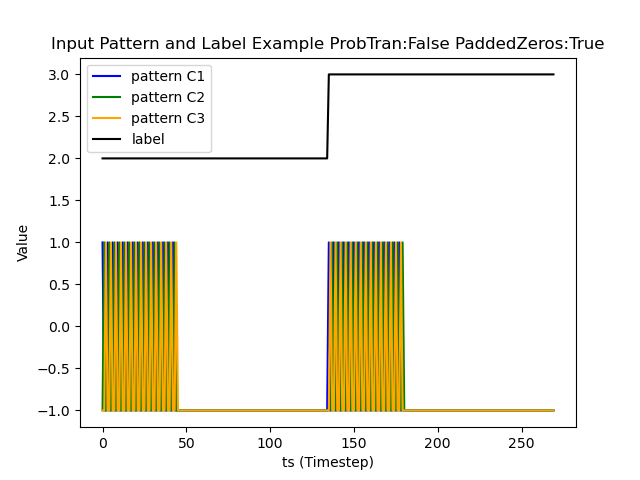
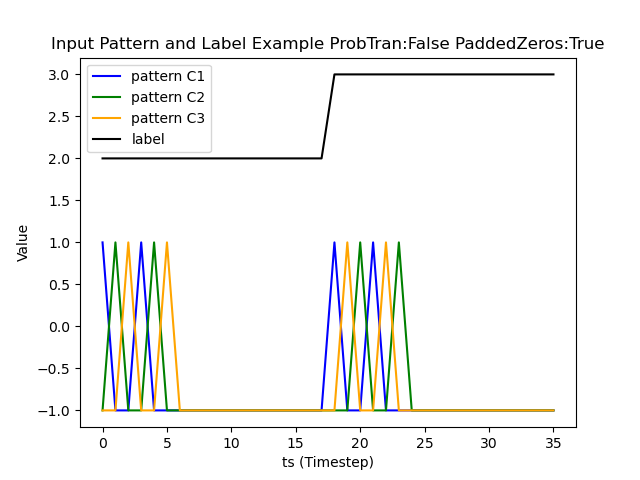
preset timing parameters

diff --git a/three-layers-feedback.py b/three-layers-feedback.py
@@ -47,16 +47,18 @@ def phase_automata(driving_symbol='0', number_of_symbols=3, id_of_starting_symbo
 reseed = 91332 #91323 #91280 #91274 # 91264 # 91254  # 91273
 good = False
 number_of_samples = 6
-ts = 45  # number of timesteps to hold a driving symbol constant for.
+ts = 6  # number of timesteps to hold a driving symbol constant for.
 pb = False
+pt = 3e-2 # seconds to present each step of input
+label_length = ts * 3 # In Timesteps, multiply by dt to get actual length of time
 threeChannelsOF1, end_channel = phase_automata(driving_symbol="1", probability_of_transition=pb, timesteps=ts)
 padded_zeros = np.zeros((3, ts * 2), dtype=float)
 padded_zeros = padded_zeros - 1.0
 threeChannels1 = np.concatenate((threeChannelsOF1, padded_zeros), axis=1)
 threeChannelsOF0, end_channel0 = phase_automata(driving_symbol="0", probability_of_transition=pb, timesteps=ts)
 threeChannels0 = np.concatenate((threeChannelsOF0, padded_zeros), axis=1)
-labels0 = np.zeros((ts * 3, 1), dtype=float)
-labels1 = np.ones((ts * 3, 1), dtype=float)
+labels0 = np.zeros((label_length, 1), dtype=float)
+labels1 = np.ones((label_length, 1), dtype=float)
 bothLabels = np.concatenate((labels0, labels1), axis=0)
 bothPatterns = np.concatenate((threeChannels0, threeChannels1), axis=1)
 
@@ -141,8 +143,8 @@ while not good:
             )
 
     with model:
-        input_signal = nengo.Node(PresentInput(tC, presentation_time=3e-2))
-        input_keys = nengo.Node(PresentInput(labels, presentation_time=3e-2))
+        input_signal = nengo.Node(PresentInput(tC, presentation_time=pt))
+        input_keys = nengo.Node(PresentInput(labels, presentation_time=pt))
 
     with model:
         nengo.Connection(input_signal, layer1, synapse=None)
@@ -177,6 +179,8 @@ while not good:
     train = t <= simT / 2
     test = ~train
 
+    
+    
     # plt.figure()
     # plt.title("Value Error During Training")
     # plt.plot(t[train], sim.data[p_error][train])
@@ -226,6 +230,13 @@ while not good:
 
     plt.clf()
     
+    plt.figure()
+    time_input_signal = t <= pt*ts
+    plt.title("single timesteps of input")
+    plt.plot(t[time_input_signal],sim.data[input_probe][time_input_signal][0: , 0:1], color="blue")
+    plt.plot(t[time_input_signal],sim.data[input_probe][time_input_signal][0: , 1:2]+2.1, color="orange")
+    plt.plot(t[time_input_signal],sim.data[input_probe][time_input_signal][0: , 2:3] + 4.2 , color="green")
+    plt.savefig('fig/inputTiming.png')
     i = 0
     
     best_neuron_value = np.sum((sim.data[filteredl3][0:, 0:0 + 1]+1.0) - (sim.data[p_keys]*2.0))
@@ -245,6 +256,43 @@ while not good:
     else:
         reseed += 1
     print("sim.dt",sim.dt)
+    print("Symbol presentation time",pt)
+    print("Label length", label_length)
+    print("layer 1 Tau RC",layer1.neuron_type.tau_rc)
+    print("layer1 refractory period",layer1.neuron_type.tau_ref)
+    plt.rcdefaults()
+    fig, ax = plt.subplots()
+    
+    people = ('Sim dt', 'Pulse Time', 'Pulse Spacing', 'Rotation Time', 'Label Time', 'L1 Tau RC', 'L1 Tau Ref', 
+    'L2 Tau RC', 
+              "L2 Tau Ref", 
+              "L3 Tau RC", "L3 Tau REf")
+    y_pos = np.arange(len(people))
+    print (y_pos)
+    performance = np.zeros(len(people),dtype=float)
+    lbs = [1,2,3,4,5,6,7,8,9,10]
+    #performance = 3 + 10 * np.random.rand(len(people))
+    performance[0] = sim.dt
+    performance[1] = pt
+    performance[2] = 0.0
+    performance[3] = ts*pt
+    performance[4] = label_length*pt
+    performance[5] = layer1.neuron_type.tau_rc
+    performance[6] = layer1.neuron_type.tau_ref
+    performance[7] = layer2.neuron_type.tau_rc
+    performance[8] = layer2.neuron_type.tau_ref
+    performance[9] = layer3.neuron_type.tau_rc
+    performance[10] = layer3.neuron_type.tau_ref
+    ax.barh(y_pos, performance)
+    ax.set_yticks(y_pos)
+    #plt.xscale("log")
+    ax.set_yticklabels(people)
+    ax.invert_yaxis()  # labels read top-to-bottom
+    ax.set_xlabel('Time (s)')
+    ax.set_title('Preset Timing Parameters')
+
+    plt.show()
+    
     good = True
 
 plt.figure()
